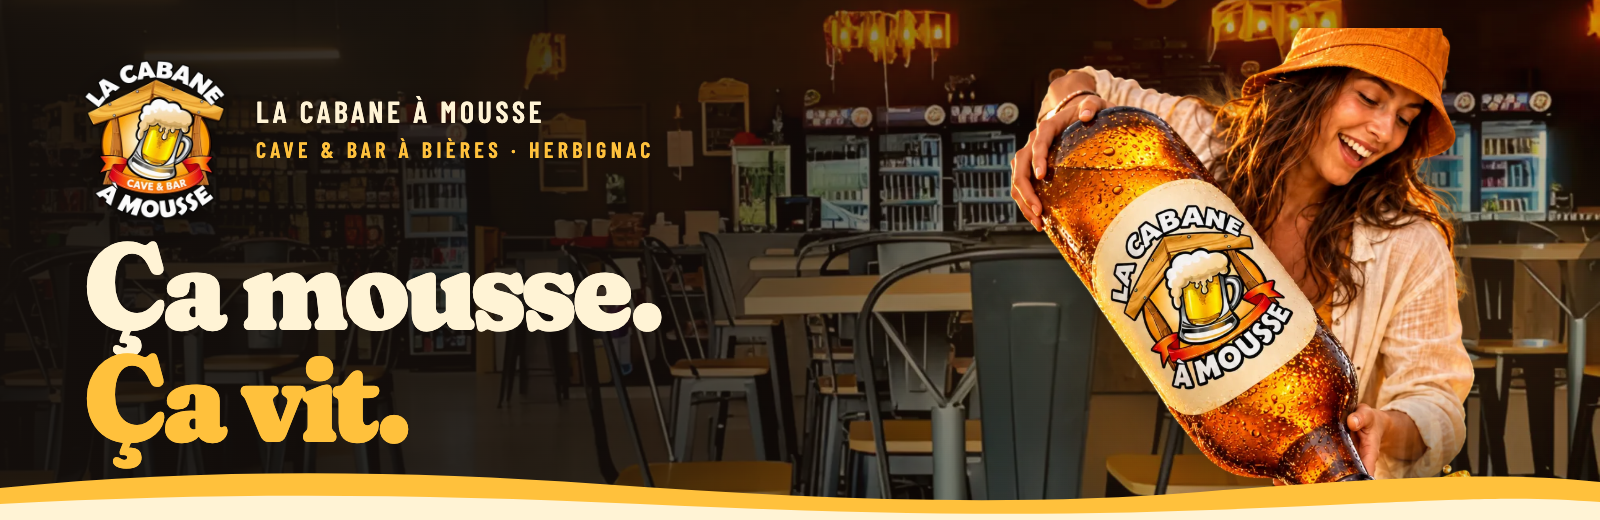
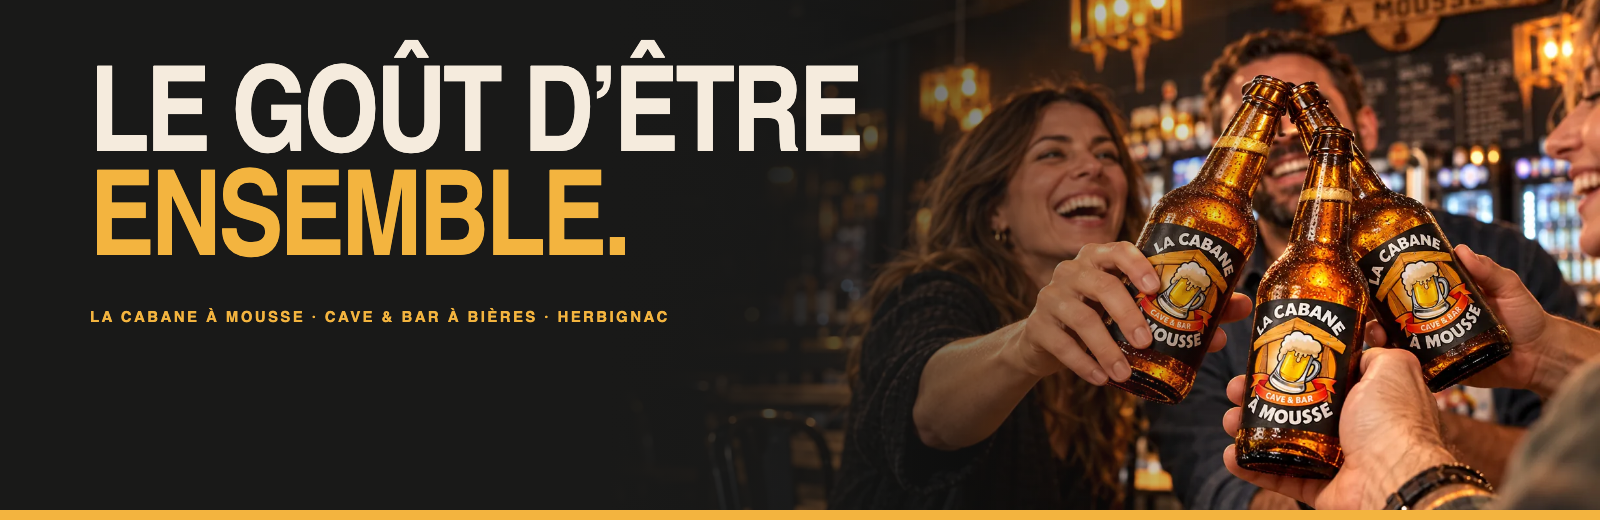
README for the V3 site; pending owner items in the TODO(cabane) markers
New banner, hero GIF (the three chapters, captured on the production
build at 1440 x 900), desktop and phone screenshots, and a README that
describes the toast hero, the registered close-up, the sections, the
design tokens and the content still waiting on the owner.

diff --git a/index.html b/index.html
@@ -123,7 +123,7 @@
       <span class="signature__last">De bons moments, tout simplement.</span>
     </div>
 
-    <!-- TODO(cabane): the room and counter photos are visitor captures (Google Maps); swap for the owner's own photos or confirm the rights before launch. -->
+    <!-- TODO(cabane): the four venue photos are screenshot captures (room and counter from Google Maps visitors): get the owner's full-resolution originals, or confirm the rights, before launch. Same for the official logo master. -->
     <section class="bar section section--light" id="bar" aria-labelledby="bar-title">
       <div class="wrap">
         <div class="section-head"><p class="eyebrow">01 / Le bar</p><p class="section-head__quiet">Bois. Métal. Lumière chaude.</p></div>

diff --git a/src/data/site.js b/src/data/site.js
@@ -1,6 +1,7 @@
 // Single source for every business fact on the page (rendered into the HTML at build time).
 // Sources: 07-integracao/dados.json + FONTES.md (PagesJaunes, Cirkwi, annuaire-entreprises, 11/10/2026).
-// TODO(cabane): confirm the Instagram URL and swap the map search for the Google place link (cid).
+// TODO(cabane): confirm the Instagram URL, add the Facebook page, swap the map search for the Google place
+// link (cid) and reconfirm the hours and any exceptional hours.
 export const site = {
   name: 'La Cabane à Mousse',
   fullName: 'La Cabane à Mousse Herbignac',

diff --git a/README.md b/README.md
@@ -1,8 +1,8 @@
 <div align="center">
 
-<img src=".github/assets/banner.png" alt="La Cabane à Mousse: Ça mousse. Ça vit." width="100%" />
+<img src=".github/assets/banner.png" alt="La Cabane à Mousse: Le goût d’être ensemble." width="100%" />
 
-<h3>A one-page website for a beer cellar & bar in Herbignac, built around a pour that crosses from one section into the next.</h3>
+<h3>A one-page website for a beer cellar & bar in Herbignac, opening on a toast that scrolls into the real bar.</h3>
 
 <p>
   <a href="https://la-cabane-a-mousse-herbignac.vercel.app"><strong>🌐 Live site</strong></a>
@@ -13,11 +13,11 @@
 </p>
 
 <p>
-  <a href="https://la-cabane-a-mousse-herbignac.vercel.app"><img src="https://img.shields.io/badge/Vercel-Live-1C1714?style=for-the-badge&logo=vercel&logoColor=white" alt="Live on Vercel" /></a>
+  <a href="https://la-cabane-a-mousse-herbignac.vercel.app"><img src="https://img.shields.io/badge/Vercel-Live-191918?style=for-the-badge&logo=vercel&logoColor=white" alt="Live on Vercel" /></a>
   <img src="https://img.shields.io/badge/Vite-6-646CFF?style=for-the-badge&logo=vite&logoColor=white" alt="Vite 6" />
-  <img src="https://img.shields.io/badge/Scroll-requestAnimationFrame-EF7A18?style=for-the-badge" alt="Vanilla scroll engine" />
+  <img src="https://img.shields.io/badge/Scroll-requestAnimationFrame-F3B43F?style=for-the-badge" alt="Vanilla scroll engine" />
   <img src="https://img.shields.io/badge/JavaScript-ES2020-F7DF1E?style=for-the-badge&logo=javascript&logoColor=black" alt="JavaScript" />
-  <img src="https://img.shields.io/badge/♿_Accessibility-first-BE3427?style=for-the-badge" alt="Accessibility first" />
+  <img src="https://img.shields.io/badge/♿_Accessibility-first-8A5F35?style=for-the-badge" alt="Accessibility first" />
 </p>
 
 </div>
@@ -26,14 +26,14 @@
 
 ## 🚀 Overview
 
-**La Cabane à Mousse** is a cave & bar à bières in Herbignac, in the Brière, that also hires out beer taps for events. The site opens in the bar itself (black walls, Edison lamps in wooden frames, Tolix stools) where a woman tips a giant bottle wearing the Cabane's label. As you scroll, **the beer leaves the bottle, crosses into the next section and lands in the open mouth of a friend waiting below**, the way the brief's reference image crosses its frame.
+**La Cabane à Mousse** is a cave & bar à bières in Herbignac, in the Brière, that also hires out beer taps for events. The site opens on a toast: three friends clink bottles wearing the Cabane's label under the headline **Le goût d’être ensemble.** As you scroll, the bar dissolves around the bottles, the camera moves in on the clink, and **a window opens from the centre onto the real room of the Cabane**, which leads into the rest of the page.
 
-The rest of the page follows the real place: the counter with its wooden sign, the cable-reel display of the cellar, and the anthracite facade with its crossed black slats for the address and opening hours. Colours come from the logo (honey, orange, banner red, foam, ink) plus the facade's slate. Every section leads to two actions: **call the Cabane** or **plan an event**.
+Everything after the hero is the real place: the counter with its wooden sign, the facade and its terrace of deckchairs, the cable-reel display of the cellar. The palette comes from the bar itself (graphite walls, black metal, wood, beer amber, the orange of the facade lettering, foam) and the type is a massive condensed face. Every section leads to one of two actions: **come by** or **call the Cabane**.
 
-- **A pour you can follow**: the fall happens while both the bottle and the mouth are on screen, at any scroll speed
-- **The real venue**: photos of the counter, the room, the cellar and the facade, cleaned up and enlarged from the owner's listing
-- **Built for every visitor**: no-JS and reduced-motion visitors get the full pour as a still, full keyboard support, visible focus, French copy as real text
-- **Light**: about 420 KB on a phone's first load, fonts included
+- **A three-chapter opening**: Le rendez-vous → Le tchin → La vraie Cabane, scrubbed by the scroll, never blocking it
+- **The real venue**: the four photos of the room, counter, facade and cellar, framed so the screenshot interface never shows
+- **Built for every visitor**: an animation switch, reduced-motion and no-JS visitors get the full static hero, keyboard menu with Escape, French copy as real text
+- **Light**: 225 KB on a phone's first load and 445 KB on desktop, fonts and images included; 2.3 KB of JavaScript (gzip)
 
 <br />
 
@@ -42,109 +42,110 @@ The rest of the page follows the real place: the counter with its wooden sign, t
 ## 🎬 The hero animation
 
 <div align="center">
-  <a href="https://la-cabane-a-mousse-herbignac.vercel.app"><img src=".github/assets/hero-scroll.gif" alt="Scrolling from the hero into the bar section: the beer pours from the bottle across the foam wave into the open mouth below" width="100%" /></a>
+  <a href="https://la-cabane-a-mousse-herbignac.vercel.app"><img src=".github/assets/hero-scroll.gif" alt="Scrolling through the hero: the friends toasting, the bar fading around the three bottles, the close-up, then the real room opening from the centre" width="100%" /></a>
   <sub>Scroll-scrubbed on the live site · captured at 1440 × 900</sub>
 </div>
 
 <br />
 
-Nothing is pinned: the page scrolls normally and the pour is timed from the live positions of the bottle and the mouth.
+The hero section is 190 % of the screen height (165 % on phones); its stage stays pinned under the header while the page scrolls normally.
 
-| Moment                          | What happens                                                                                  |
-| :------------------------------ | :-------------------------------------------------------------------------------------------- |
-| Page load                       | The bar room, the headline, both calls to action; a few drops escape the bottle neck          |
-| Neck at 60–75% of the screen    | The beer starts to fall and crosses the foam wave into **Le bar**                             |
-| Neck at 25–42%                  | The beer reaches the mouth while the mouth is still at ≤ 78% of the screen                    |
-| Contact                         | A burst of droplets and light at the mouth, then the stream keeps flowing with a moving shine |
-| Scrolling back up               | The pour rewinds and the drops come back                                                      |
+| Scroll progress | Chapter               | What happens                                                                                   |
+| :-------------- | :-------------------- | :--------------------------------------------------------------------------------------------- |
+| 0–18 %          | **Le rendez-vous**    | The toast, the headline and both calls to action; a slow push towards the clinking necks       |
+| 18–37 %         | Into the close-up     | The headline lifts away and the bar dissolves around the bottles, which stay exactly in place  |
+| 37–64 %         | **Le tchin**          | The three bottles alone on graphite, the camera moves in, a short amber glint where they touch |
+| 64–76 %         | The door opens        | The real room appears in a small window in the centre                                          |
+| 76–100 %        | **La vraie Cabane**   | The window opens to full screen and hands over to the sections                                 |
 
 **Under the hood**
 
-- 🧩 **One rig, two sections.** The kit ships the woman, the man and the isolated stream as cut-outs on one shared canvas. `scripts/measure-pour.py` places them in "rig units": the top of the stream sits in the bottle opening (+45, +55 from the woman), and the man is lowered until the end of the stream lands in his mouth. The rig lives in **Le bar** and reaches 900 units up into the hero, so the woman stands in the hero and the man in the next section.
-- 📏 **One length scales everything.** CSS computes `--u` (one rig unit) from the viewport: on wide screens from the hero height and the room left by the text column, on phones from the width. Every layer is positioned in `calc(n * var(--u))`.
-- 🎯 **Timed from geometry, tested at human speed.** `src/js/pour.js` maps the bottle neck's position on screen to the pour, so the fall always happens in view. A wheel-scroll test (16 ms cadence, easing on) checked every frame: the liquid's leading edge never left the screen, at ~750 and ~1,900 px/s, on desktop and phone.
-- 📷 **Real photos, enlarged.** The venue photos were only available inside the brief's screenshot board (~500 px). `scripts/prepare-real-photos.py` crops them, removes the Google Maps interface drawn over them and enlarges them 4× with Real-ESRGAN.
-- 🐢 **Graceful by default.** With `prefers-reduced-motion`, without JavaScript, or if the script hasn't started after 4 s, the full pour is shown as a still. `?p=0.5` freezes the pour for captures and `?nosmooth` turns off the easing.
+- 🎯 **The close-up is registered, not cross-faded.** The kit ships the three bottles as a separate transparent layer. `scripts/register-toast.py` matches it to the campaign photo with SIFT features and a RANSAC similarity transform (515 inliers, 1.6 px median error): the layer is the campaign's bottles at 1.233×. `src/js/hero.js` composes that transform with the campaign's own zoom, so the layer sits on the bottles while the bar fades out, then eases to the close-up framing. No second group of bottles ever shows.
+- 📐 **Image coordinates at every size.** Each layer lives in a box with the image's own aspect ratio that covers the stage, computed in CSS with container units (`max(100cqw, 100cqh * 1.5)`). Zoom origins, the glint and the registration are written in percentages of the image, so they hold from 1024 to 1920 px wide.
+- 🧮 **One function, one frame.** `motionAt(p)` (the ranges of the kit's study) returns every value for a progress `p`; a single pending `requestAnimationFrame` writes them as custom properties on the hero. Progress comes from the sticky offset and the stage's own height, so it stays exact when a phone's address bar resizes the window.
+- 📱 **Phones get the portrait campaign.** Below 850 px the hero uses the portrait toast, keeps it on screen while it zooms, and skips the close-up layer entirely (its `<picture>` only has sources above 850 px, so phones never download it). The real room still opens at the end.
+- 🐢 **Motion is optional.** The **Désactiver l’animation** switch (remembered per visitor), `prefers-reduced-motion`, no JavaScript, or a script that hasn't started within 4 s all give the static hero with every action. `?p=0.5` freezes the progress for captures.
 
 <br />
 
 ## 🖥 Sections
 
 <div align="center">
-  <img src=".github/assets/desktop-sections.jpg" alt="Desktop screenshots: the bar with the real counter, the cellar with the cable-reel display, tap hire, and the contact block on the facade's slats" width="100%" />
+  <img src=".github/assets/desktop-sections.jpg" alt="Desktop screenshots: the bar with the real counter, the cellar with its cable-reel display, tap hire in three steps, and the contact block with today's hours" width="100%" />
 </div>
 
 <br />
 
-| #   | Section                                   | Anchor          | Role                                                                          |
-| :-- | :---------------------------------------- | :-------------- | :---------------------------------------------------------------------------- |
-| 01  | **Ça mousse. Ça vit.**                    | `#top`          | The bar room, the promise, both calls to action and the woman tipping the bottle |
-| 02  | **Les bons moments commencent ici.**      | `#bar`          | The friend catching the beer, then the real counter and the campaign friends   |
-| 03  | **Une cave. Mille envies de découvrir.**  | `#cave`         | Orange chapter with the real cable-reel display and the labelled bottle splash |
-| 04  | **Vos événements prennent mousse.**       | `#evenements`   | Tap hire in three steps and a direct phone call; conditions confirmed by phone |
-| 05  | **La vie de la Cabane.**                  | `#rendez-vous`  | Points to Instagram, under two line-drawn pendant lamps from the bar room     |
-| 06  | **On vous garde une place à Herbignac.**  | `#nous-trouver` | The facade photo on its crossed slats, address, phone, hours with today highlighted, directions |
-| 07  | Footer                                    | n/a             | Details, site map and the French health warning                               |
+| #   | Section                                          | Anchor        | Role                                                                            |
+| :-- | :----------------------------------------------- | :------------ | :------------------------------------------------------------------------------ |
+| 01  | **Le goût d’être ensemble.**                     | `#accueil`    | The toast in three chapters, the headline, *Entrer dans la Cabane* and *Louer une tireuse* |
+| 02  | Signature band                                   | n/a           | La Cabane à Mousse ✳ Herbignac ✳ De bons moments, tout simplement.               |
+| 03  | **C’est ici que ça se passe.**                   | `#bar`        | The real counter in a tilted frame, then the facade and terrace with the address |
+| 04  | **Le goût de la découverte.**                    | `#cave`       | The cellar's cable-reel display; advice by phone, no stock or prices promised    |
+| 05  | **Votre fête. Notre mousse.**                    | `#tireuses`   | Tap hire in three steps (date, wishes, talk) and a direct call                  |
+| 06  | **On garde le contact.**                         | `#actualites` | News on Instagram; no past poster shown as a future event                       |
+| 07  | **À tout à l’heure.**                            | `#contact`    | Address and directions, phone, hours with today highlighted                     |
+| 08  | Footer                                           | n/a           | Details, site map and the French health warning                                 |
 
 <br />
 
 ## 📱 Mobile first, motion optional
 
 <div align="center">
-  <img src=".github/assets/mobile-screens.jpg" alt="Mobile screenshots: the hero with the woman, the pour landing in the bar section, the cellar and the contact block" width="100%" />
+  <img src=".github/assets/mobile-screens.jpg" alt="Mobile screenshots: the portrait toast hero, the real room at the end of the hero, the bar, the cellar and tap hire" width="100%" />
 </div>
 
 <br />
 
-- The text sits above the woman, the man waits right under the foam wave, and the pour runs top to bottom in a single column
-- Header with the logo, a call button and a full-screen menu (Escape closes it)
-- Every touch target is at least 44 px; no horizontal scroll at 360 or 390 px
+- The toast fills the top of the screen; title and actions sit on the dark counter below it
+- Header with the logo and a **Menu** button: full-height panel, `aria-expanded`, Escape closes it and returns focus
+- Every touch target is at least 44 px; no horizontal scroll at 320, 390 or 430 px
 - Nothing depends on hover
 
 <br />
 
 ## ✨ Highlights
 
-- **🍺 Scroll storytelling**: a small `requestAnimationFrame` engine drives one mask and a few classes; the drops, the splash and the shine are CSS
-- **🏠 The real place**: the facade's slats drawn as a seamless SVG pattern generated at build time, the bar's pendant lamps redrawn as line art, real photos in the bar, the cellar and the contact block
-- **📞 Contact without a form**: the brief allows no fake submission, so every action is a real `tel:` link or the directions
+- **🍻 Scroll storytelling**: zoom, dissolve, a registered close-up and a clip-path window, driven by one function and custom properties
+- **🏠 The real place**: the four venue photos are framed by the rectangles documented in the kit, so the screenshots' interface never shows and the masters stay untouched
+- **📞 Contact without a form**: every action is a real `tel:` link, the directions or Instagram
 - **🕘 Today's hours**: opening hours are rendered into the HTML at build time; a few lines of JS only highlight today's row (Paris time)
-- **♿ Accessible components**: skip link, labelled menu button with `aria-expanded`, the pour described as one image, honey never used as small text on cream
-- **🖼 Image pipeline**: the kit's PNG masters stay untouched; `npm run images` writes versioned AVIF/WebP sizes, icons and the share image
-- **🔤 Lean type**: Fraunces is pinned to the one style the site uses (Black, soft) with its optical-size axis kept: 121 KB → 29 KB
+- **♿ Accessible components**: skip link, labelled menu button, a pressed-state animation switch, faded titles taken out of the tab order, focus rings in amber or ink depending on the background
+- **🖼 Image pipeline**: `npm run images` writes versioned AVIF/WebP sizes, icons and the share image (itself a capture of the built hero)
+- **🔤 Lean type**: the kit's condensed face subset to Latin in WOFF2, 58 KB → 16 KB, its licence shipped next to it
 
 <br />
 
 ## 💻 Tech stack
 
-| <img src="https://cdn.jsdelivr.net/gh/devicons/devicon/icons/vitejs/vitejs-original.svg" width="40" height="40" /><br />Vite 6 | <img src="https://cdn.jsdelivr.net/gh/devicons/devicon/icons/javascript/javascript-original.svg" width="40" height="40" /><br />JavaScript | <img src="https://cdn.jsdelivr.net/gh/devicons/devicon/icons/html5/html5-original.svg" width="40" height="40" /><br />HTML5 | <img src="https://cdn.jsdelivr.net/gh/devicons/devicon/icons/css3/css3-original.svg" width="40" height="40" /><br />CSS3 | <img src="https://cdn.jsdelivr.net/gh/devicons/devicon/icons/opencv/opencv-original.svg" width="40" height="40" /><br />OpenCV | <img src="https://cdn.jsdelivr.net/gh/devicons/devicon/icons/pytorch/pytorch-original.svg" width="40" height="40" /><br />PyTorch | <img src="https://cdn.simpleicons.org/vercel/000000/ffffff" width="40" height="40" /><br />Vercel |
+| <img src="https://cdn.jsdelivr.net/gh/devicons/devicon/icons/vitejs/vitejs-original.svg" width="40" height="40" /><br />Vite 6 | <img src="https://cdn.jsdelivr.net/gh/devicons/devicon/icons/javascript/javascript-original.svg" width="40" height="40" /><br />JavaScript | <img src="https://cdn.jsdelivr.net/gh/devicons/devicon/icons/html5/html5-original.svg" width="40" height="40" /><br />HTML5 | <img src="https://cdn.jsdelivr.net/gh/devicons/devicon/icons/css3/css3-original.svg" width="40" height="40" /><br />CSS3 | <img src="https://cdn.jsdelivr.net/gh/devicons/devicon/icons/python/python-original.svg" width="40" height="40" /><br />Python | <img src="https://cdn.jsdelivr.net/gh/devicons/devicon/icons/opencv/opencv-original.svg" width="40" height="40" /><br />OpenCV | <img src="https://cdn.simpleicons.org/vercel/000000/ffffff" width="40" height="40" /><br />Vercel |
 | :---: | :---: | :---: | :---: | :---: | :---: | :---: |
 
 ### Why this stack?
 
 - **Vite + plain JavaScript**: a one-page site doesn't need a framework runtime; the page is static HTML with three small modules
-- **Own scroll engine**: one rig with a handful of properties; a few lines of `requestAnimationFrame` replace a scroll library
-- **Python + OpenCV + PyTorch for the assets**: the rig is placed by measured offsets and the venue photos are enlarged with Real-ESRGAN, once, offline
-- **Self-hosted Fraunces, Barlow Condensed and Inter**: expressive display type without third-party font requests
+- **Own scroll engine**: one progress value and a dozen custom properties; a few lines of `requestAnimationFrame` replace a scroll library
+- **Python + OpenCV for the assets**: the close-up layer is registered on the campaign once, offline, and the result is a small JSON file the page reads
+- **Self-hosted fonts**: the kit's condensed face and Inter, without third-party font requests
 - **Vercel**: every push to `main` deploys automatically
 
 <br />
 
 ## 🎨 Design system
 
-| Token    | Value                                                                        | Use                                                  |
-| :------- | :--------------------------------------------------------------------------- | :--------------------------------------------------- |
-| Honey    | ![#FFC13C](https://img.shields.io/badge/%23FFC13C-FFC13C?style=flat-square) | Hero second line, primary buttons on dark, news band |
-| Orange   | ![#EF7A18](https://img.shields.io/badge/%23EF7A18-EF7A18?style=flat-square) | Header (like the facade lettering), cellar chapter   |
-| Red      | ![#BE3427](https://img.shields.io/badge/%23BE3427-BE3427?style=flat-square) | Tap-hire button, eyebrows on foam                    |
-| Foam     | ![#FFF3D5](https://img.shields.io/badge/%23FFF3D5-FFF3D5?style=flat-square) | Light sections, text on dark                         |
-| Ink      | ![#1C1714](https://img.shields.io/badge/%231C1714-1C1714?style=flat-square) | Text, dark buttons, footer                           |
-| Slate    | ![#2A2725](https://img.shields.io/badge/%232A2725-2A2725?style=flat-square) | Contact block, the facade's anthracite               |
+| Token    | Value                                                                        | Use                                                        |
+| :------- | :--------------------------------------------------------------------------- | :--------------------------------------------------------- |
+| Graphite | ![#191918](https://img.shields.io/badge/%23191918-191918?style=flat-square) | Hero, header, contact and footer                           |
+| Charcoal | ![#292824](https://img.shields.io/badge/%23292824-292824?style=flat-square) | The cellar                                                 |
+| Wood     | ![#8A5F35](https://img.shields.io/badge/%238A5F35-8A5F35?style=flat-square) | Accent words and the street number on foam                 |
+| Beer     | ![#F3B43F](https://img.shields.io/badge/%23F3B43F-F3B43F?style=flat-square) | *Ensemble*, primary buttons, signature band, tap hire      |
+| Orange   | ![#E67F22](https://img.shields.io/badge/%23E67F22-E67F22?style=flat-square) | From the logo and the facade lettering; accent on dark only |
+| Foam     | ![#F5EBDD](https://img.shields.io/badge/%23F5EBDD-F5EBDD?style=flat-square) | The bar and news sections, text on dark                    |
 
-- **Palette**: the logo's colours plus the facade's slate; no green anywhere, as the brief asks
-- **Type**: Fraunces Black (soft) for headlines, 44–128 px in the hero and 40–76 px for sections; Barlow Condensed for labels and buttons; Inter for body text at 16–18.5 px
-- **Shapes**: beer waves with foam bubbles and torn-paper edges between chapters, the facade's crossed slats, the bar's pendant lamps, rounded photo windows
-- **Motion**: entrances of 26–40 px over 700–900 ms with a light stagger; a slow parallax on the overlapping photos; all off with reduced motion
+- **Contrast**: beer on graphite 9.6:1, wood on foam 4.7:1; foam is never used as text on beer (1.6:1)
+- **Type**: the condensed display face in capitals for every headline (54–158 px in the hero, 52–128 px for sections), Inter for text at 15–18 px and spaced capitals for labels
+- **Shapes**: square buttons and frames, a tilted photo frame for the counter, thin rules between steps and hours
+- **Motion**: entrances of 26 px over 800–900 ms with a light stagger; all off with reduced motion
 
 <br />
 
@@ -169,11 +170,10 @@ npm run build
 # Preview the production build  →  http://localhost:4188
 npm run preview
 
-# Rebuild the generated assets (Python 3 with OpenCV; PyTorch for the photos)
-npm run photos -- RealESRGAN_x4plus.pth   # needs the brief's 00-referencias/ and the Real-ESRGAN weights
-npm run measure
-npm run images
-npm run fonts                             # fonttools + brotli
+# Rebuild the generated assets
+npm run images                        # sharp: kit masters → AVIF/WebP, icons, share image
+npm run fonts                         # fonttools + brotli
+python3 scripts/register-toast.py     # opencv-python: writes src/data/toast.json (--check for an overlay)
 ```
 
 <br />
@@ -182,28 +182,26 @@ npm run fonts                             # fonttools + brotli
 
 ```
 la-cabane-a-moussewebsite/
-├── index.html                  # Every section: hero → bar → cave → événements → rendez-vous → nous trouver → footer
-├── vite.config.js              # Renders facts, <x-pic> pictures, rig positions and the slat pattern into the HTML
+├── index.html                  # Every section: hero → bar/terrasse → cave → tireuses → actualités → contact → footer
+├── vite.config.js              # Renders facts and <x-pic> pictures (art-directed, desktop-only) into the HTML
 ├── src/
 │   ├── main.js                 # Entry: fonts, styles, module init
 │   ├── data/
 │   │   ├── site.js             # Name, phone, address, hours, links, structured data (single source)
-│   │   ├── pour.json           # Rig geometry: layers, neck, mouth, stream span (generated)
+│   │   ├── toast.json          # Close-up registration on the campaign (generated)
 │   │   └── images.json         # Image manifest (generated)
-│   ├── styles/                 # base.css (tokens, header) · hero.css (hero + rig) · sections.css
+│   ├── styles/                 # base.css (tokens, type, header) · hero.css (three chapters) · sections.css
 │   └── js/
-│       ├── pour.js             # Scroll position → pour, drops, contact, shine
-│       ├── reveal.js           # Entrance animations and photo parallax
-│       └── nav.js              # Mobile menu, compact logo, today's hours
+│       ├── hero.js             # motionAt(p), scroll → custom properties, animation switch
+│       ├── reveal.js           # Entrance animations
+│       └── nav.js              # Mobile menu, today's hours
 ├── scripts/
-│   ├── measure-pour.py         # Places the cut-outs, softens their crops, writes pour.json
-│   ├── prepare-real-photos.py  # Venue photos from the brief's board: crop, clean, enlarge
-│   ├── upscale.py              # Real-ESRGAN x4plus (RRDBNet) runner
-│   ├── build-images.mjs        # Masters → AVIF/WebP, icons, share image (sharp)
-│   └── subset-fonts.py         # Fraunces instance + subset
-├── public/                     # Generated images, font, favicons, Open Graph image
-├── assets-src/                 # Rig layers and cleaned venue photos (generated)
-└── 01-identidade … 08-estudo/  # The creative kit (brief, mockups, masters, scripts), kept as delivered
+│   ├── register-toast.py       # SIFT + RANSAC similarity: close-up layer → campaign
+│   ├── build-images.mjs        # Masters → framed, resized AVIF/WebP, icons, share image (sharp)
+│   └── subset-fonts.py         # Condensed face → Latin WOFF2 + licence
+├── public/                     # Generated images, fonts and licence, favicons, Open Graph image
+├── assets-src/og.png           # Capture of the built hero for the share image
+└── 01-identidade … 08-estudo/  # The creative kit V3 (direction, masters, scripts, study), kept as delivered
 ```
 
 <br />
@@ -228,31 +226,30 @@ The creative kit folders are excluded from the deployment by `.vercelignore`.
 
 Items waiting on the owner. Each one is marked `TODO(cabane)` in `index.html` or `src/data/site.js`.
 
-- [ ] The room photo (hero) and the counter photo come from Google Maps visitors: replace them with the owner's own photos, or confirm the rights
-- [ ] Original, full-resolution files of the facade and cellar photos (the site uses enlarged crops from screenshots)
+- [ ] Full-resolution originals of the four venue photos (the site frames screenshots); the room and counter photos come from Google Maps visitors, so replace them or confirm the rights
+- [ ] The official logo master (the site uses the reconstruction from the kit)
 - [ ] Confirm the Instagram link and add the Facebook page (the exact URL wasn't in the brief)
 - [ ] Replace the directions link (an address search) with the Cabane's own Google Maps place
 - [ ] Reconfirm opening hours and any exceptional hours
-- [ ] Tap-hire conditions: equipment, capacity, deposit, delivery and prices (handled by phone until then)
-- [ ] A curated agenda with verified future dates for **La vie de la Cabane**
+- [ ] Tap-hire conditions: equipment, availability, prices, deposit, delivery, cleaning and booking (handled by phone until then)
+- [ ] A curated agenda with verified future dates for **On garde le contact**
 - [ ] Mentions légales (publisher, SIRET, host)
 - [ ] Final domain (then update `canonical` and `og:url` and remove `noindex`)
 
-Choices made where the brief and the owner's feedback pulled in different directions:
+Choices made where the kit left room for interpretation:
 
-- The kit's sunset-beach art direction was replaced by the real bar (room, counter, cellar, facade), at the owner's request, although the brief advised against dark interiors
-- The pour follows the reference image (it crosses from the hero into the next section) rather than the kit's single-frame reveal; the kit's own cut-outs made that possible
-- The French copy file is canonical; text painted into the mockups was not reused
-- The cellar keeps the brief's creative title but never states a number of references
+- The kit describes the close-up layer as an independent shot to cross-fade; measured, it is the campaign's bottles at 1.233×, so it is placed on them and the bar dissolves around them instead of showing two groups of bottles
+- The kit asks to remove a "previous green palette"; the V2 site had none, so the previous honey/orange/red tokens were replaced entirely
+- Where the study and the mockups differ, the mockups set the look (amber cellar title and button, graphite contact block) and the study sets the behaviour
+- The hire title stays ink on beer for both lines: foam on beer would fall to 1.6:1
 
 <br />
 
 ## 🙏 Acknowledgments
 
 - **La Cabane à Mousse** for the logo, the photos of the venue and the brief
-- **[Real-ESRGAN](https://github.com/xinntao/Real-ESRGAN)** by Xintao Wang et al. (BSD-3-Clause) for the photo enlargement
-- **[Fraunces](https://fonts.google.com/specimen/Fraunces)** by Undercase Type, **[Barlow](https://fonts.google.com/specimen/Barlow+Condensed)** by Jeremy Tribby and **[Inter](https://rsms.me/inter/)** by Rasmus Andersson (OFL)
-- **[OpenCV](https://github.com/opencv/opencv)** and **[sharp](https://sharp.pixelplumbing.com)** for the measurement and image pipelines
+- **Nimbus Sans Narrow** by URW++ (AGPL-3 with font exception, licence in `public/fonts/`) and **[Inter](https://rsms.me/inter/)** by Rasmus Andersson (OFL)
+- **[OpenCV](https://github.com/opencv/opencv)** and **[sharp](https://sharp.pixelplumbing.com)** for the registration and image pipelines
 - **[Vite](https://vite.dev)** and **[Vercel](https://vercel.com)**
 
 <br />
@@ -261,7 +258,7 @@ Choices made where the brief and the owner's feedback pulled in different direct
 
 <div align="center">
   <img src="public/favicon.png" width="44" height="44" alt="" />
-  <p><strong>Ça mousse. Ça vit.</strong></p>
+  <p><strong>Le goût d’être ensemble.</strong></p>
   <p>Built with ❤ by <a href="https://github.com/Jeanfr1">Jean</a> for La Cabane à Mousse</p>
-  <sub>L'abus d'alcool est dangereux pour la santé. À consommer avec modération.</sub>
+  <sub>L’abus d’alcool est dangereux pour la santé. À consommer avec modération.</sub>
 </div>
